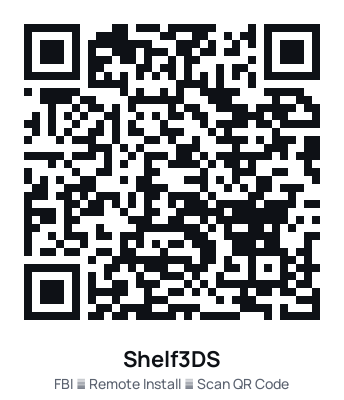
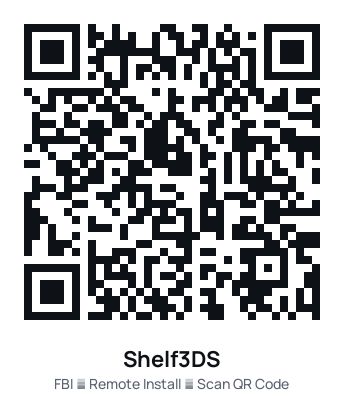
Point links and the FBI QR code at the renamed repo (DarthTigerson/ABS3DS)

Changed region(s): [[0.0581, 0.06, 0.9302, 0.81], [0.7849, 0.45, 0.814, 0.48]]

diff --git a/tools/make_qr.py b/tools/make_qr.py
@@ -4,7 +4,7 @@ download the latest shelf3ds.cia release. Run: /usr/bin/python3 tools/make_qr.py
 import qrcode
 from PIL import Image, ImageDraw, ImageFont
 
-URL = "https://github.com/DarthTigerson/Shelf3DS/releases/latest/download/shelf3ds.cia"
+URL = "https://github.com/DarthTigerson/ABS3DS/releases/latest/download/shelf3ds.cia"
 
 qr = qrcode.QRCode(error_correction=qrcode.constants.ERROR_CORRECT_M, box_size=8, border=3)
 qr.add_data(URL)

diff --git a/README.md b/README.md
@@ -1,7 +1,7 @@
 # Shelf3DS: Audiobookshelf for Nintendo 3DS
 
-[![Build](https://github.com/DarthTigerson/Shelf3DS/actions/workflows/build.yml/badge.svg)](https://github.com/DarthTigerson/Shelf3DS/actions/workflows/build.yml)
-[![Latest release](https://img.shields.io/github/v/release/DarthTigerson/Shelf3DS)](https://github.com/DarthTigerson/Shelf3DS/releases/latest)
+[![Build](https://github.com/DarthTigerson/ABS3DS/actions/workflows/build.yml/badge.svg)](https://github.com/DarthTigerson/ABS3DS/actions/workflows/build.yml)
+[![Latest release](https://img.shields.io/github/v/release/DarthTigerson/ABS3DS)](https://github.com/DarthTigerson/ABS3DS/releases/latest)
 
 A native 3DS player for your self-hosted [Audiobookshelf](https://www.audiobookshelf.org/) server.
 Browse your library with cover art, stream or download books, and keep your
@@ -20,7 +20,7 @@ place in sync with the ABS web and phone apps.
 
 1. On the 3DS, open **FBI → Remote Install → Scan QR Code** and scan the code on the right.
    It always downloads the newest `shelf3ds.cia` from the
-   [latest release](https://github.com/DarthTigerson/Shelf3DS/releases/latest).
+   [latest release](https://github.com/DarthTigerson/ABS3DS/releases/latest).
    You can also download `shelf3ds.cia` yourself, copy it to the SD card and install it with FBI.
    `shelf3ds.3dsx` runs from the Homebrew Launcher.
 2. **Audio needs the DSP firmware dump** (`sdmc:/3ds/dspfirm.cdc`). Most consoles set up with
